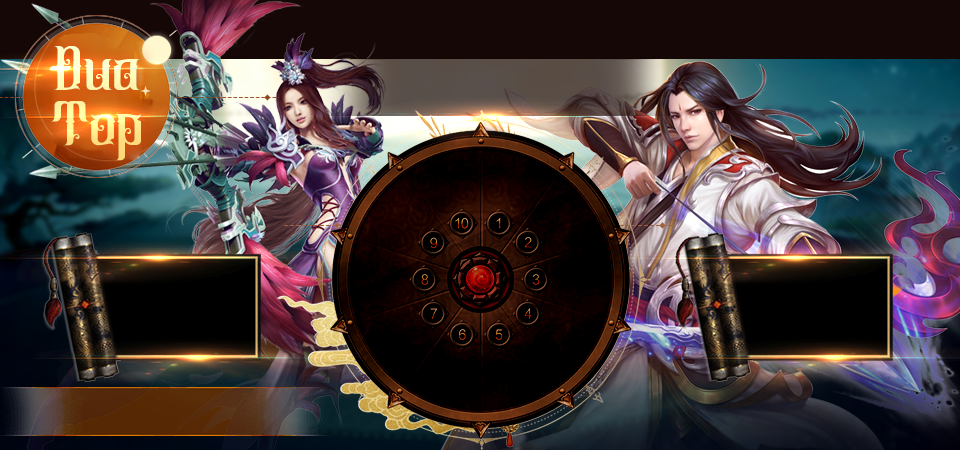
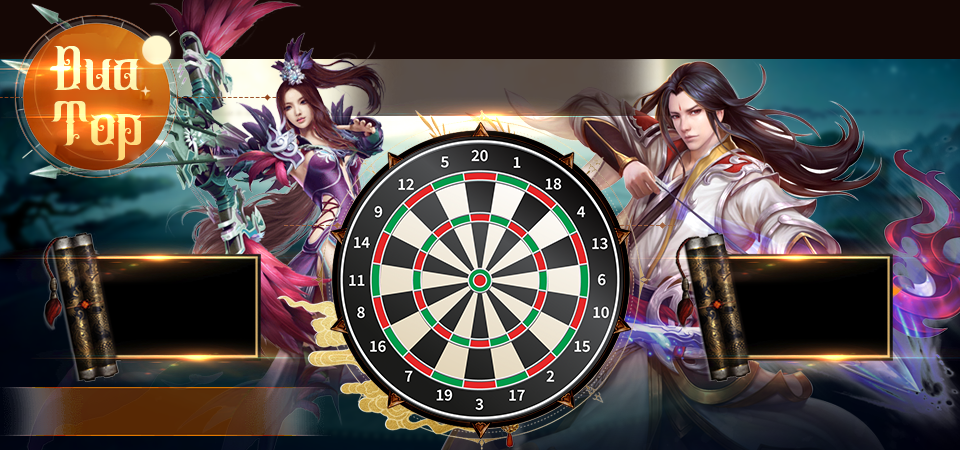
fix

Changed region(s): [[0.3438, 0.28, 0.6562, 0.9333]]

diff --git a/src/containers/phitieu/web/home.js b/src/containers/phitieu/web/home.js
@@ -43,8 +43,19 @@ import logo_scoinvip from './images/logo_scoinvip.png';
 import logo_splay from './images/logo_splay.png';
 import btn_tudo from './images/btn-tudo.png';
 // import xiaomi_black from './images/xiaomi-black-shark-2.png';
+import img_thescoin10k from './images/img-thescoin10k.png';
+import img_thescoin20k from './images/img-thescoin20k.png';
+import img_thescoin50k from './images/img-thescoin50k.png';
+import img_thescoin100k from './images/img-thescoin100k.png';
 import img_thescoin200k from './images/img-thescoin200k.png';
+import img_thescoin300k from './images/img-thescoin300k.png';
+import img_thescoin500k from './images/img-thescoin500k.png';
+import img_thescoin1000k from './images/img-thescoin1000k.png';
+import img_thescoin2000k from './images/img-thescoin200k.png';
+import img_thescoin500k from './images/img-thescoin5000k.png';
 import img_thescoinvoucher from './images/img-thescoinvoucher.png';
+
+
 import btn_phanthuong_active from './images/btn-phanthuong-active.png';
 import btn_phanthuong from './images/btn-phanthuong.png';
 import btn_lichsu from './images/btn-lichsu.png';
@@ -576,17 +587,17 @@ class Lucky_Rotation extends React.Component {
 									</div>
 								</div>
 								<div class="btn-h position-relative">
-									<a href="#" title="Hướng dẫn mua thẻ scoin" target="_blank"><img src={btn_huongdanmuathescoin} width="340" hspace="10" /></a>
-									<a href="#" title="Nhận thông báo sự kiện"><img src={btn_nhanthongbaosukien} width="340" hspace="10" /></a>
+									<a href="https://daily.scoin.vn/huong-dan-mua-the/" title="Hướng dẫn mua thẻ scoin" target="_blank"><img src={btn_huongdanmuathescoin} width="340" hspace="10" /></a>
+									<a href="https://www.facebook.com/scoinvtcmobile" title="Nhận thông báo sự kiện"><img src={btn_nhanthongbaosukien} width="340" hspace="10" /></a>
 								</div>
 								<div class="btn-h position-relative mt-2">
-									<a href="#" title="Nạp game" target="_blank"><img src={btn_napgame} width="150" hspace="100" /></a>
+									<a href="https://scoin.vn/nap-game" title="Nạp game" target="_blank"><img src={btn_napgame} width="150" hspace="100" /></a>
 									<a href="Tel:19001104" title="Hot line"><img src={img_hotline} width="300" hspace="40" /></a>
 								</div>
 								<div class="btn-h position-relative mt-2">
-									<a href="#" title="Scoin" target="_blank"><img src={logo_scoin} width="150" hspace="30" /></a>
-									<a href="#" title="Scoin VIP" target="_blank"><img src={logo_scoinvip} width="150" hspace="30" /></a>
-									<a href="#" title="Splay"><img src={logo_splay} width="150" hspace="30" /></a>
+									<a href="https://scoin.vn/" title="Scoin" target="_blank"><img src={logo_scoin} width="150" hspace="30" /></a>
+									<a href="https://vip.scoin.vn/" title="Scoin VIP" target="_blank"><img src={logo_scoinvip} width="150" hspace="30" /></a>
+									<a title="Splay"><img src={logo_splay} width="150" hspace="30" /></a>
 								</div>
 								<div class="btn-h position-relative mt-2 pb-2 font-size-16 text-white-50">
 									<p class="text-center">
@@ -603,7 +614,7 @@ class Lucky_Rotation extends React.Component {
 									</p>
 								</div>
 								<div class="menu-left">
-									<a href="#" title="Active VIP" target="_blank"><p class="mb-0 menu-link link-first"></p></a>
+									<a href="https://vip.scoin.vn/" title="Active VIP" target="_blank"><p class="mb-0 menu-link link-first"></p></a>
 									<a href="#" title="Hướng dẫn chơi"><p class="mb-0 menu-link"></p></a>
 									<a href="#Modalgiaithuong" title="Giải thưởng" data-toggle="modal"><p class="mb-0 menu-link"></p></a>
 									<a href="#" title="Lịch sử giao dịch"><p class="mb-0 menu-link"></p></a>

diff --git a/src/containers/phitieu/mobile/sanqua.js b/src/containers/phitieu/mobile/sanqua.js
@@ -54,8 +54,8 @@ const styles = {
 	},
 };
 
-var startX=500, endX=745, startY=250, endY=490;
-
+var startX=370, endX=587, startY=170, endY=387;
+var img_w=960;
 var award_open=true;
 var n=0;
 var animId;
@@ -73,12 +73,12 @@ var heightFrame = spriteHeight;
 var srcX=0; 
 var srcY=0; 
 
-var Dart_Center_X=619;
-var Dart_Center_Y=375;
-var radius=134;
+var Dart_Center_X=478;
+var Dart_Center_Y=280;
+var radius=108;
 
 var SEGMENT_SIZE = Math.PI/10.0;
-var SEGMENTS = [8, 15, 73, 83, 124, 134];
+var SEGMENTS = [4, 9, 57, 67, 99, 108];
 var SEGMENT_NAMES = ['50','25','value','tripple','value','double','out'];
 var SCORE_VALUES = [6, 13, 4, 18, 1, 20, 5, 12, 9, 14, 11, 8, 16, 7, 19, 3, 17, 2, 15, 10, 6];
 
@@ -160,12 +160,23 @@ class Lucky_Rotation extends React.Component {
 		}else{
 			this.setState({horizontal: true})
 		}
+		var delta=window.innerWidth/img_w;
+		startX=startX*delta;
+		endX=endX*delta;
+		startY=startY*delta;
+		endY=endY*delta;
+		Dart_Center_X=Dart_Center_X*delta;
+		Dart_Center_Y=Dart_Center_Y*delta;
+		SEGMENTS=SEGMENTS.map(v => {
+			return v*delta
+		})
 	}
 
 
 
 
 	componentDidMount(){
+		console.log("startX:", startX)
 		const {horizontal}=this.state;
 		this.toggleFullScreen()
 		if(horizontal){
@@ -261,8 +272,9 @@ class Lucky_Rotation extends React.Component {
 
 		}
 
-		const {img_width, img_height}=this.state;
+
 		var user = JSON.parse(localStorage.getItem("user"));
+		this.setState({user:user})
 
 		this.props.getLuckyInfo(1, user.Token).then(()=>{
 			var data=this.props.dataLuckyInfo;
@@ -396,6 +408,12 @@ class Lucky_Rotation extends React.Component {
 		var timing=m/n * 100
 		this.setState({timing: timing+"%"})
 		this.timeRemain(end)
+	}
+
+	getRandomInt=(min, max)=> {
+		min = Math.ceil(min);
+		max = Math.floor(max);
+		return Math.floor(Math.random() * (max - min + 1)) + min;
 	}
 
 	handleScroll = (event) => {
@@ -719,16 +737,12 @@ class Lucky_Rotation extends React.Component {
 		return (
 				<div id="game" style={{overflowBlock:'hidden'}}>
 					{(horizontal)?(<div class="bg-page-sanqua_m position-relative">
-						
-						<div class="phitieu_m">
-							<div class="img-phitieu_m"></div>
-						</div>
 						<div class="tongdiem_m">
 							<h2 class="font-size-2vw_m text-uppercase font-weight-bold text-center mb-1 text-shadow_m">Tổng điểm</h2>
 							<h4 class="font-size-2vw_m text-uppercase text-center text-shadow_m">{points_sanqua}</h4>
 						</div>
 						<div class="phongtudong_m font-size-2vw_m font-weight-bold text-uppercase text-shadow_m">
-							<input type="checkbox" id="check1" name="option1" value="something" /> Phóng phi tiêu tự động
+							 Phóng phi tiêu tự động
 						</div>
 
 						<div class="timing_m">
@@ -775,7 +789,7 @@ class Lucky_Rotation extends React.Component {
 
 						{/* {(auto_play)?(<div id="canvas" style={{position:'absolute', top:0, left:0, zIndex:99999}}></div>):(<div id="canvas" style={{position:'absolute', top:0, left:0, zIndex:99999}} onMouseDown={this.touchStart} onMouseUp={this.touchEnd} onMouseMove={this.touchMove}></div>)} */}
 						<div id="canvas" style={{position:'absolute', top:0, left:0, zIndex:99999}} onTouchStart={this.touchStart} onTouchEnd={this.touchEnd} onTouchMove={this.touchMove}></div>
-						<div id="div_checkbox" style={{position:'absolute', top:"90%", left:"40%", zIndex:999999}} onTouchStart={this.check_auto}></div>
+						<div id="div_checkbox" style={{position:'absolute', top:"89%", left:"2%", zIndex:999999}} onTouchStart={this.check_auto}></div>
 						<div id="div_exit" style={{position:'absolute', top:0, left:"85%", zIndex:999999}} onTouchStart={this.exit}></div>
 					</div>):(<div>
 						<img src={rotate} width="100%" alt="" />

diff --git a/src/containers/phitieu/web/duatop.js b/src/containers/phitieu/web/duatop.js
@@ -141,10 +141,10 @@ class Lucky_Rotation extends React.Component {
 			timing:"10%",
 			score_text:{},
 			data:{},
-			points_sanqua:0,
+			points:0,
 			countDart:0,
 			sessionId:0,
-			listTop:[],
+			highestPoints:0,
 			isPlay:true,
 			msg:'',
 			isChangetab:false
@@ -276,17 +276,19 @@ class Lucky_Rotation extends React.Component {
 		var user = JSON.parse(localStorage.getItem("user"));
 		this.setState({user:user})
 
-		this.props.getLuckyInfo(1, user.Token).then(()=>{
+		this.props.getLuckyInfo(2, user.Token).then(()=>{
 			var data=this.props.dataLuckyInfo;
 			if(data!==undefined){
 				if(data.Status===0){
-					this.setState({data:data.Data, countDart: data.Data.AddInfo.Darts, points_sanqua: data.Data.AddInfo.Points, listTop:data.Data.AddInfo.TopUsers, sessionId: data.Data.SessionId})
+					this.setState({data:data.Data, countDart: data.Data.AddInfo.Darts, points: data.Data.AddInfo.Points, highestPoints:data.Data.AddInfo.HighestPoints, sessionId: data.Data.SessionId})
 					console.log(data.Data)
 					this.getStatus(data.Data)
 				}else if(data.Status===2){
 					this.setState({msg:'Hiện tại chưa đến giờ săn quà, mời bạn sang tham gia Đua TOP'})
 					$('#ModalnoneDuaTop').modal('show');
-				}else{
+				}else if(data.Status===3){
+					this.logoutAction();
+				}else {
 					console.log("Lỗi")
 				}
 			}
@@ -307,6 +309,31 @@ class Lucky_Rotation extends React.Component {
 	componentWillUnmount() {
 		clearInterval(this.state.intervalId);
 		this.setState({ auto : !this.state.auto});
+	}
+
+	logoutAction = () => {
+		this.logout();
+		localStorage.removeItem("user");
+		window.location.replace(
+			`https://graph.vtcmobile.vn/oauth/authorize?client_id=92d34808c813f4cd89578c92896651ca&redirect_uri=${window.location.protocol}//${window.location.host}&action=logout&agencyid=0`,
+		);
+
+		// window.location.replace(
+		// 	`http://sandbox.graph.vtcmobile.vn/oauth/authorize?client_id=UH8DN779CWCMnCyeXGrm2BRqiTlJajUyZUEM0Kc&redirect_uri=${window.location.protocol}//${window.location.host}&action=logout&agencyid=0`,
+		// );
+	}
+
+	logout=()=>{
+		var user = JSON.parse(localStorage.getItem("user"));
+		var header = {
+			headers: {
+				"Content-Type": "application/json",
+				"token": user.Token,
+			}
+		}
+		axios.get('https://api.splay.vn/luckywheel/luckywheel/user-signout/', header).then(function (response) {
+			console.log(response)
+		})
 	}
 
 	visibilityChange=()=>{
@@ -573,12 +600,12 @@ class Lucky_Rotation extends React.Component {
 			}
 		}
 
-		this.props.getDartScore(1, totalScore,sessionId, user.Token).then(()=>{
+		this.props.getDartScore(2, totalScore,sessionId, user.Token).then(()=>{
 			var data=this.props.dataUserSpin;
 			if(data.Status===0){
-				this.setState({countDart: data.Darts, points_sanqua: data.Points, listTop:data.TopList})
+				this.setState({countDart: data.Darts, points: data.Points, highestPoints:data.HighestPoint})
 			}else if(data.Status===2){
-				this.setState({listTop:data.Data, msg:'Quà đã có chủ, phiên chơi kết thúc, mời bạn sang tham gia Đua TOP'}, ()=>{
+				this.setState({highestPoints:data.Data, msg:'Quà đã có chủ, phiên chơi kết thúc'}, ()=>{
 					$('#ModalnoneDuaTop').modal('show');
 				})
 				
@@ -620,7 +647,9 @@ class Lucky_Rotation extends React.Component {
 			}
 			var x=this.getRandomInt(startX, endX);
 			var y=this.getRandomInt(startY, endY);
-			this.draw(x,y+heightFrame/2);
+			if(!isChangetab){
+				this.draw(x,y+heightFrame/2);
+			}
 			this.fireDart(x, y + 12)
 		}else{
 			$('#ThongBao').modal('show');

diff --git a/src/containers/phitieu/mobile/home.js b/src/containers/phitieu/mobile/home.js
@@ -585,17 +585,17 @@ class Lucky_Rotation extends React.Component {
 									</div>
 								</div>
 								<div class="btn-h_m position-relative">
-									<a href="#" title="Hướng dẫn mua thẻ scoin" target="_blank"><img src={btn_huongdanmuathescoin} width="40%" hspace="10" /></a>
-									<a href="#" title="Nhận thông báo sự kiện"><img src={btn_nhanthongbaosukien} width="40%" hspace="10" /></a>
+									<a href="https://daily.scoin.vn/huong-dan-mua-the/" title="Hướng dẫn mua thẻ scoin" target="_blank"><img src={btn_huongdanmuathescoin} width="40%" hspace="10" /></a>
+									<a href="https://www.facebook.com/scoinvtcmobile" title="Nhận thông báo sự kiện" target="_blank"><img src={btn_nhanthongbaosukien} width="40%" hspace="10" /></a>
 								</div>
 								<div class="btn-h_m position-relative mt-2">
-									<a href="#" title="Nạp game" target="_blank"><img src={btn_napgame} width="20%" hspace="11%" /></a>
+									<a href="https://scoin.vn/nap-game" title="Nạp game" target="_blank"><img src={btn_napgame} width="20%" hspace="11%" /></a>
 									<a href="Tel:19001104" title="Hot line"><img src={img_hotline} width="40%" hspace="10" /></a>
 								</div>
 								<div class="btn-h_m position-relative mt-2">
-									<a href="#" title="Scoin" target="_blank"><img src={logo_scoin} width="20%" hspace="10" /></a>
-									<a href="#" title="Scoin VIP" target="_blank"><img src={logo_scoinvip} width="20%" hspace="10" /></a>
-									<a href="#" title="Splay"><img src={logo_splay} width="20%" hspace="10" /></a>
+									<a href="https://scoin.vn/" title="Scoin" target="_blank"><img src={logo_scoin} width="20%" hspace="10" /></a>
+									<a href="https://vip.scoin.vn" title="Scoin VIP" target="_blank"><img src={logo_scoinvip} width="20%" hspace="10" /></a>
+									<a title="Splay"><img src={logo_splay} width="20%" hspace="10" /></a>
 								</div>
 								<div class="btn-h_m position-relative mt-2 pb-2 font-size-3vw_m text-white-50">
 									<p class="text-center">

diff --git a/src/containers/phitieu/web/sanqua.js b/src/containers/phitieu/web/sanqua.js
@@ -281,6 +281,8 @@ class Lucky_Rotation extends React.Component {
 				}else if(data.Status===2){
 					this.setState({msg:'Hiện tại chưa đến giờ săn quà, mời bạn sang tham gia Đua TOP'})
 					$('#Modalnone').modal('show');
+				}else if(data.Status===3){
+					this.logoutAction();
 				}else{
 					console.log("Lỗi")
 				}
@@ -302,6 +304,31 @@ class Lucky_Rotation extends React.Component {
 	componentWillUnmount() {
 		clearInterval(this.state.intervalId);
 		this.setState({ auto : !this.state.auto});
+	}
+
+	logoutAction = () => {
+		this.logout();
+		localStorage.removeItem("user");
+		window.location.replace(
+			`https://graph.vtcmobile.vn/oauth/authorize?client_id=92d34808c813f4cd89578c92896651ca&redirect_uri=${window.location.protocol}//${window.location.host}&action=logout&agencyid=0`,
+		);
+
+		// window.location.replace(
+		// 	`http://sandbox.graph.vtcmobile.vn/oauth/authorize?client_id=UH8DN779CWCMnCyeXGrm2BRqiTlJajUyZUEM0Kc&redirect_uri=${window.location.protocol}//${window.location.host}&action=logout&agencyid=0`,
+		// );
+	}
+
+	logout=()=>{
+		var user = JSON.parse(localStorage.getItem("user"));
+		var header = {
+			headers: {
+				"Content-Type": "application/json",
+				"token": user.Token,
+			}
+		}
+		axios.get('https://api.splay.vn/luckywheel/luckywheel/user-signout/', header).then(function (response) {
+			console.log(response)
+		})
 	}
 
 	visibilityChange=()=>{

diff --git a/src/modules/lucky.js b/src/modules/lucky.js
@@ -168,6 +168,33 @@ export const getLuckyInfo = (type, token) => {
 	}
 }
 
+export const getMoreEvent= (type, token) => {
+	var header = {
+		headers: {
+			"Content-Type": "application/json",
+			"token": token,
+		}
+	}
+
+	return dispatch => {
+		dispatch({
+			type: LUCKY_REQUEST
+		})
+		var url = Ultilities.base_url() + "darts/user-get-current-session/?type="+type
+		return axios.get(url, header).then(function (response) {
+			console.log(response)
+			dispatch({
+				type: LUCKY_INFO,
+				data: response.data
+			})
+		}).catch(function (error) {
+			dispatch({
+				type: SERVER_ERROR
+			})
+		})
+	}
+}
+
 
 export const getDartScore = (type, points,sessionId,  token) => {
 	var header = {
